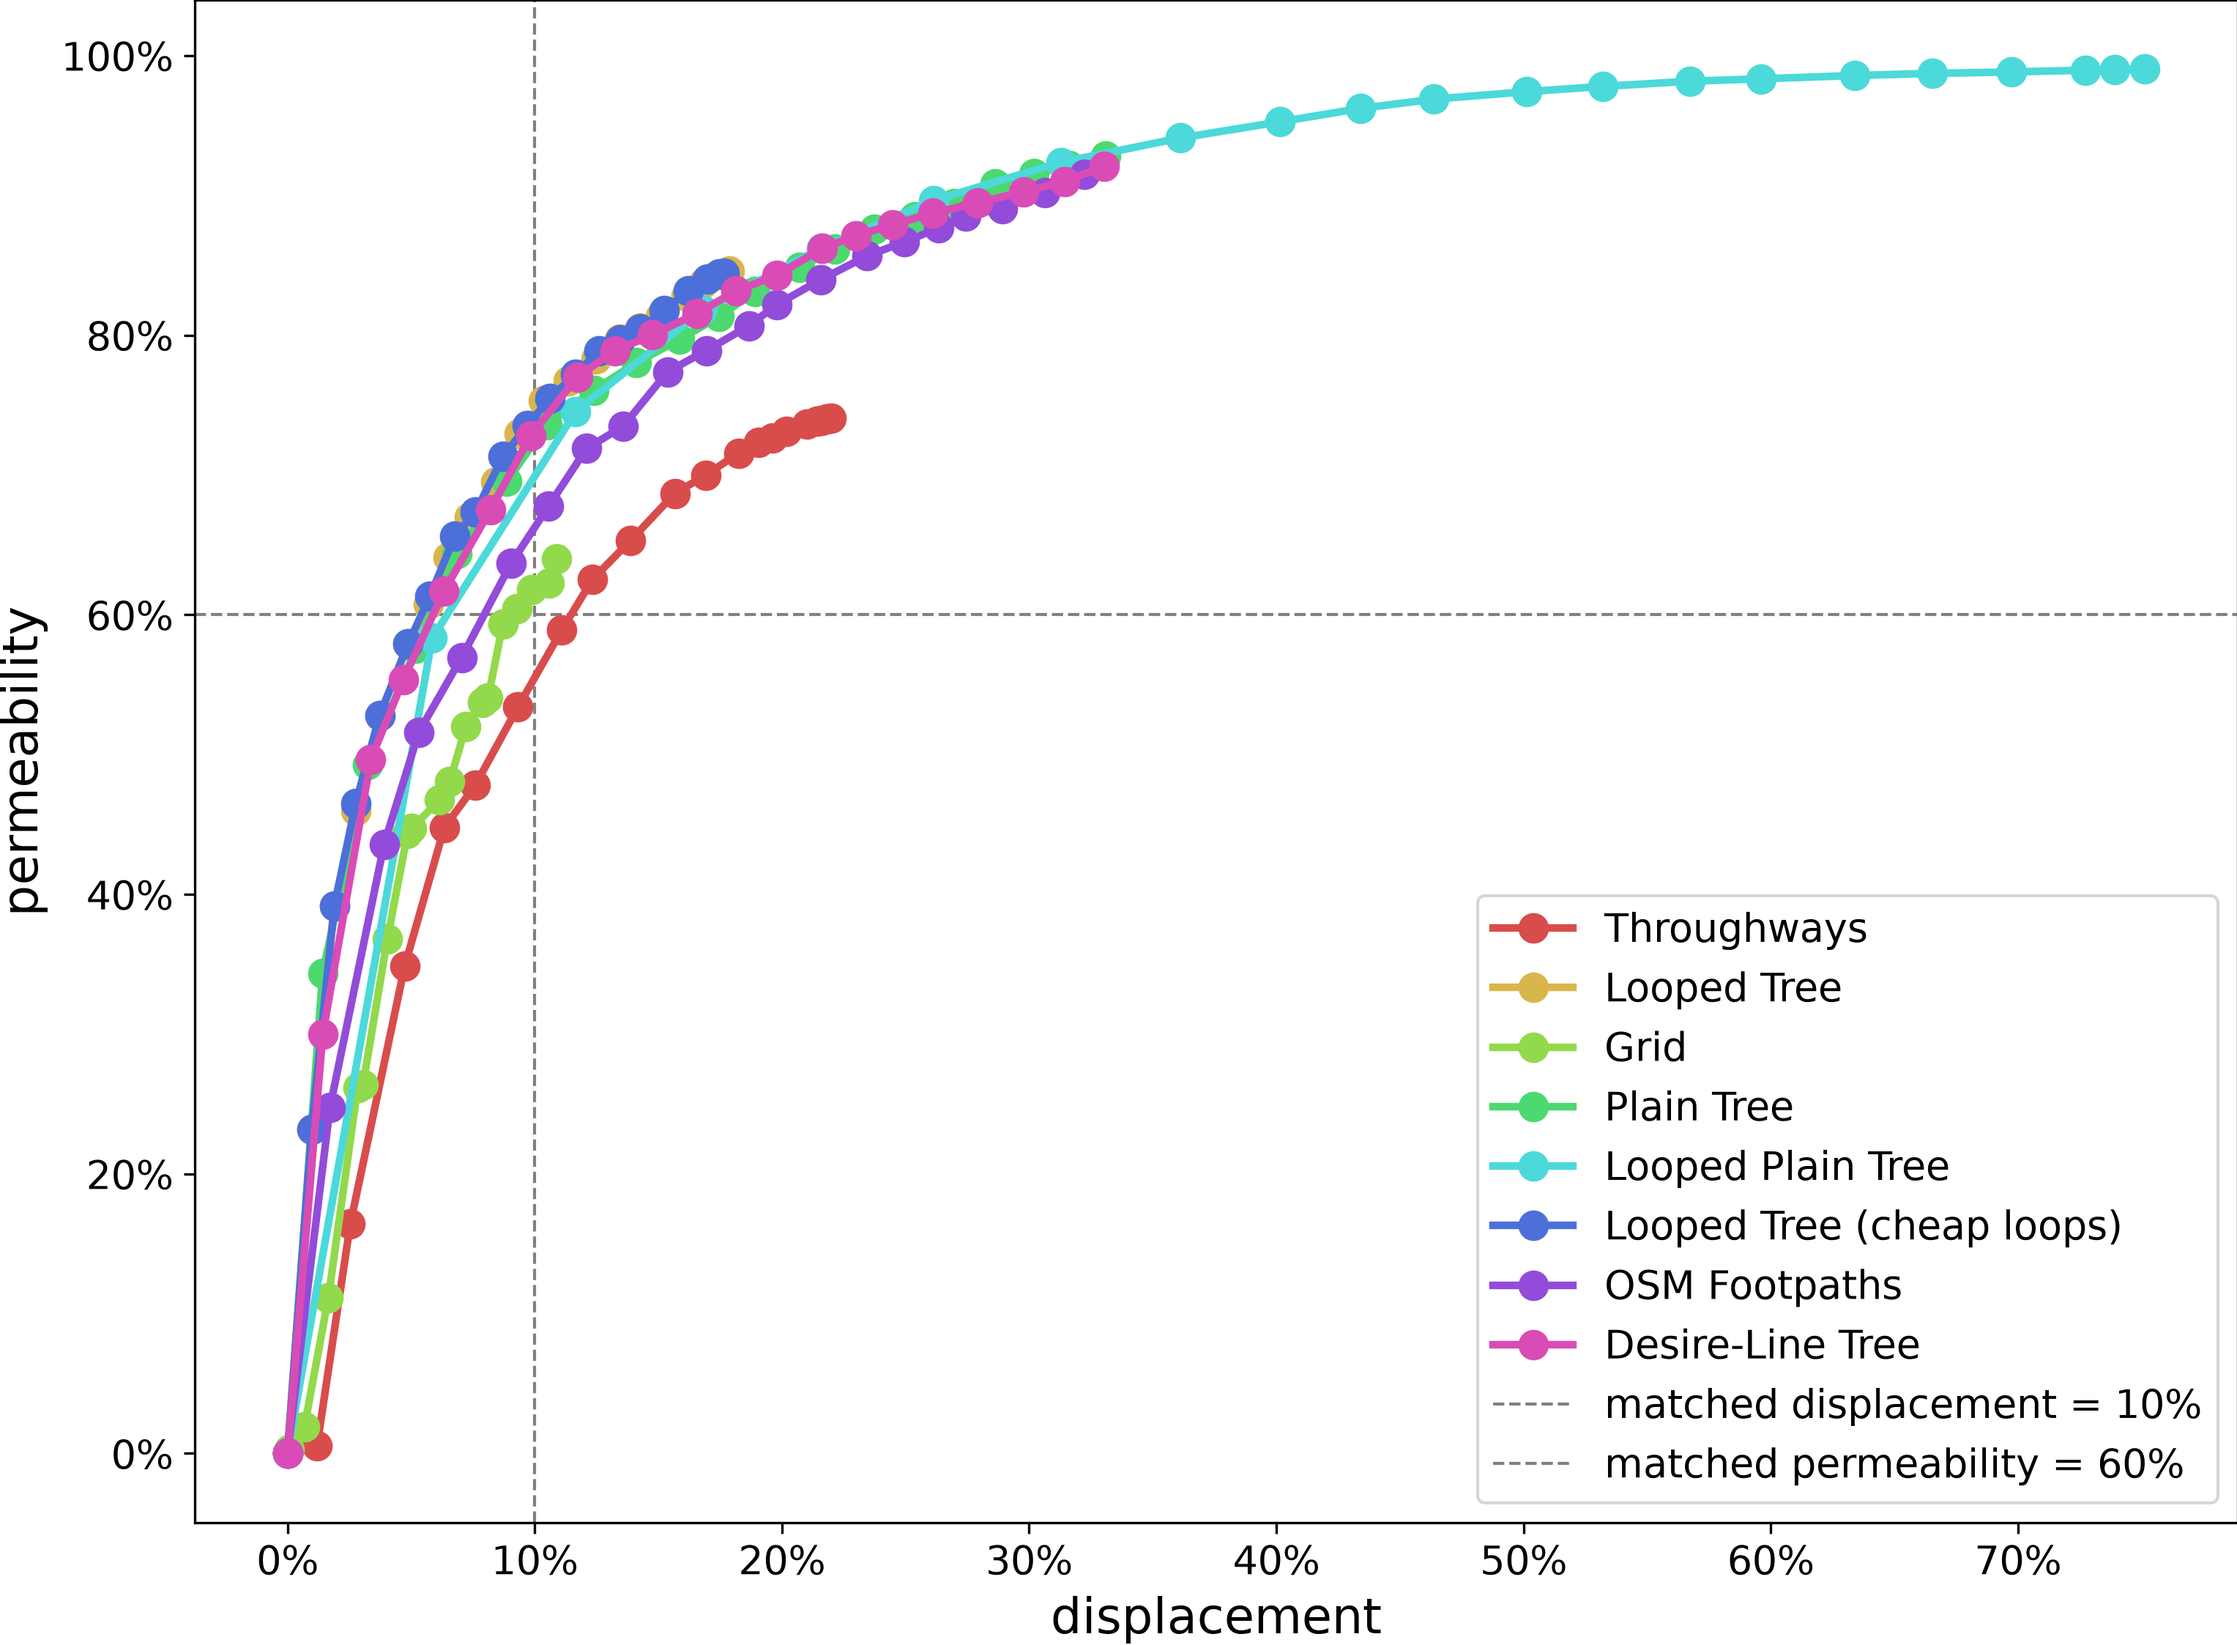
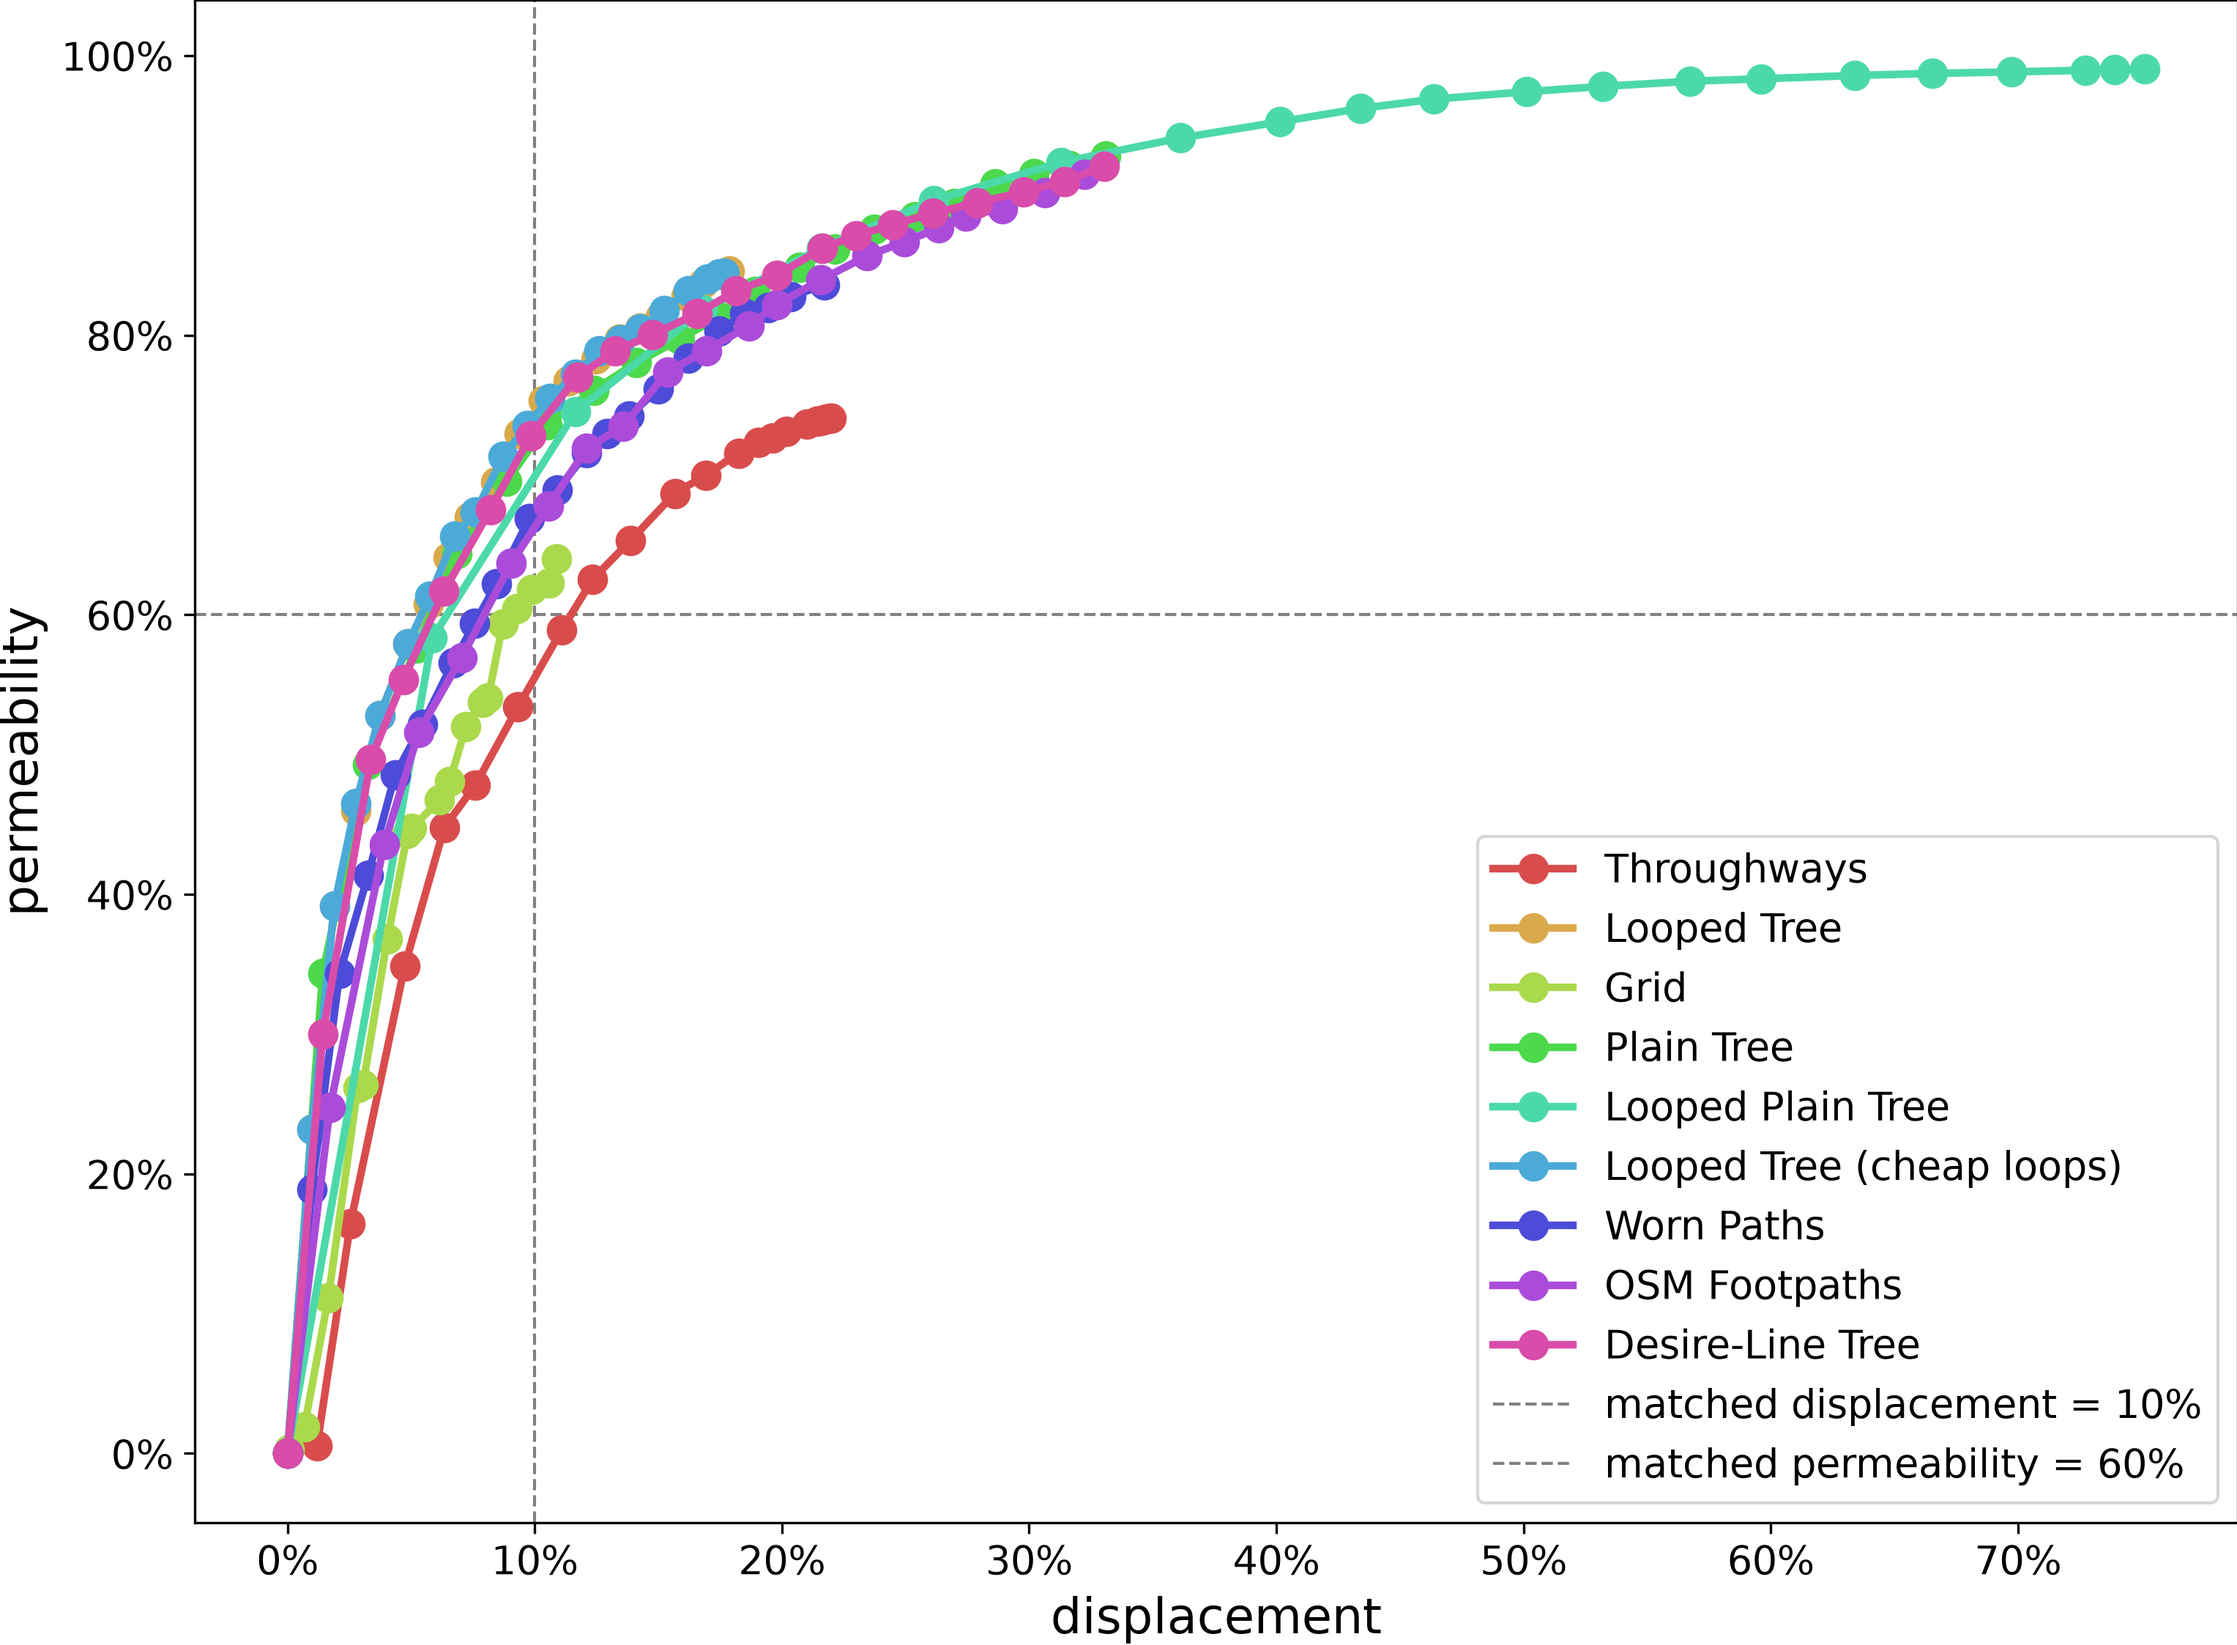
example: add flow_paths -- it lands almost exactly on osm_footpaths
Regenerated density_compactness Cape Town with 9 methods. flow_paths reproduces
the REAL network's position on both lenses, to a degree that reads as more than
coincidence:

  Lens A   flow_paths 0.672 perm @ 2976m   osm_footpaths 0.665 @ 3196m
  Lens B   flow_paths 2403m / 0.0786 disp  osm_footpaths 2460m / 0.0783

Two independent budget conventions, and it sits on the real network in both. So
the trail-formation model does capture something real: it reproduces the
FUNCTIONAL profile of a worn footpath network -- the same permeability for the
same displacement -- even though it does not reproduce its geometry (IoU@10m
0.27, no better than any other method).

That also settles the open question from the mimicry work. Its low displacement
per block was an artefact of being sparser than the budget; at matched
permeability on a region it needs MORE road and MORE displacement than the trees
(2403m/0.079 vs clearance_looped_cheap's 1434m/0.055). It is dominated by them on
both lenses -- exactly as osm_footpaths is, which is the point: real networks lose
on these metrics, and a good model of real networks loses the same way.

max_sources raised to 1500 for the example: the region is ~4,600 parcels and the
per-block default of 400 trip sources samples under 10% of it.

515 passed, lint and mypy --strict clean.

Claude-Session: https://claude.ai/code/session_013nyiMR7YotYFswJtbJY25N

diff --git a/scripts/gen_multiblock_example.py b/scripts/gen_multiblock_example.py
@@ -147,6 +147,7 @@ def main() -> None:
         "all_methods.clearance_looped_cheap.base.max_roads=3000",
         "all_methods.clearance_looped_cheap.budget_frac=0.30",
         "all_methods.clearance_looped_cheap.search_radius_m=60",
+        "+all_methods.flow_paths.max_sources=1500",
         "all_methods.euclidean_grid.spacing=250"]   # coarser grid -> budget in the pack
     if metric_name in _ARTERIAL_MAX_ROADS:
         overrides.append(
@@ -190,7 +191,7 @@ def main() -> None:
         methods = {n: cast(Method, instantiate(cfg.all_methods[n]))
                    for n in ("greedy_arterial_repulsion", "clearance_looped", "euclidean_grid",
                              "demand_greedy_uniform", "demand_looped",
-                             "clearance_looped_cheap")}
+                             "clearance_looped_cheap", "flow_paths")}
         # osm_footpaths: the real as-built informal network, from a committed per-region OSM
         # snapshot (fetched once by scripts.fetch_desire_lines_snapshot) so the example
         # reproduces offline.

diff --git a/examples/multiblock_density_compactness/README.md b/examples/multiblock_density_compactness/README.md
@@ -37,9 +37,9 @@ The frontier is the whole trade-off: **permeability** (benefit — the only bene
 
 **Watch each method reblock** — its full road set added in drainage order, the deep interior draining as the network reaches in:
 
-| Looped Tree | Looped Tree (cheap loops) | Desire-Line Tree | Plain Tree | Looped Plain Tree | Grid | Throughways | OSM Footpaths |
-|---|---|---|---|---|---|---|---|
-| ![Looped Tree](reblock_clearance_looped.gif) | ![Looped Tree (cheap loops)](reblock_clearance_looped_cheap.gif) | ![Desire-Line Tree](reblock_demand_greedy.gif) | ![Plain Tree](reblock_demand_greedy_uniform.gif) | ![Looped Plain Tree](reblock_demand_looped.gif) | ![Grid](reblock_euclidean_grid.gif) | ![Throughways](reblock_greedy_arterial_repulsion.gif) | ![OSM Footpaths](reblock_osm_footpaths.gif) |
+| Looped Tree | Looped Tree (cheap loops) | Desire-Line Tree | Plain Tree | Looped Plain Tree | Grid | Worn Paths | Throughways | OSM Footpaths |
+|---|---|---|---|---|---|---|---|---|
+| ![Looped Tree](reblock_clearance_looped.gif) | ![Looped Tree (cheap loops)](reblock_clearance_looped_cheap.gif) | ![Desire-Line Tree](reblock_demand_greedy.gif) | ![Plain Tree](reblock_demand_greedy_uniform.gif) | ![Looped Plain Tree](reblock_demand_looped.gif) | ![Grid](reblock_euclidean_grid.gif) | ![Worn Paths](reblock_flow_paths.gif) | ![Throughways](reblock_greedy_arterial_repulsion.gif) | ![OSM Footpaths](reblock_osm_footpaths.gif) |
 
 ### Matched displacement
 
@@ -53,20 +53,21 @@ Every method truncated to the same displacement %, so this compares the **permea
 | Plain Tree | 2,433 m | 10.1% | 72.7% |  |
 | Looped Plain Tree | 2,442 m | 10.0% | 71.7% |  |
 | Grid | 3,945 m | 10.1% | 61.9% |  |
+| Worn Paths | 2,976 m | 10.0% | 67.2% |  |
 | Throughways | 3,158 m | 10.0% | 54.9% |  |
 | OSM Footpaths | 3,196 m | 10.0% | 66.5% |  |
 
 Access-depth coloring:
 
-| Looped Tree (cheap loops) | Looped Tree | Desire-Line Tree | Plain Tree | Looped Plain Tree | Grid | Throughways | OSM Footpaths |
-|---|---|---|---|---|---|---|---|
-| ![Looped Tree (cheap loops)](after_clearance_looped_cheap_disp_depth.png) | ![Looped Tree](after_clearance_looped_disp_depth.png) | ![Desire-Line Tree](after_demand_greedy_disp_depth.png) | ![Plain Tree](after_demand_greedy_uniform_disp_depth.png) | ![Looped Plain Tree](after_demand_looped_disp_depth.png) | ![Grid](after_euclidean_grid_disp_depth.png) | ![Throughways](after_greedy_arterial_repulsion_disp_depth.png) | ![OSM Footpaths](after_osm_footpaths_disp_depth.png) |
+| Looped Tree (cheap loops) | Looped Tree | Desire-Line Tree | Plain Tree | Looped Plain Tree | Grid | Worn Paths | Throughways | OSM Footpaths |
+|---|---|---|---|---|---|---|---|---|
+| ![Looped Tree (cheap loops)](after_clearance_looped_cheap_disp_depth.png) | ![Looped Tree](after_clearance_looped_disp_depth.png) | ![Desire-Line Tree](after_demand_greedy_disp_depth.png) | ![Plain Tree](after_demand_greedy_uniform_disp_depth.png) | ![Looped Plain Tree](after_demand_looped_disp_depth.png) | ![Grid](after_euclidean_grid_disp_depth.png) | ![Worn Paths](after_flow_paths_disp_depth.png) | ![Throughways](after_greedy_arterial_repulsion_disp_depth.png) | ![OSM Footpaths](after_osm_footpaths_disp_depth.png) |
 
 Permeability-potential coloring:
 
-| Looped Tree (cheap loops) | Looped Tree | Desire-Line Tree | Plain Tree | Looped Plain Tree | Grid | Throughways | OSM Footpaths |
-|---|---|---|---|---|---|---|---|
-| ![Looped Tree (cheap loops)](after_clearance_looped_cheap_disp_perm.png) | ![Looped Tree](after_clearance_looped_disp_perm.png) | ![Desire-Line Tree](after_demand_greedy_disp_perm.png) | ![Plain Tree](after_demand_greedy_uniform_disp_perm.png) | ![Looped Plain Tree](after_demand_looped_disp_perm.png) | ![Grid](after_euclidean_grid_disp_perm.png) | ![Throughways](after_greedy_arterial_repulsion_disp_perm.png) | ![OSM Footpaths](after_osm_footpaths_disp_perm.png) |
+| Looped Tree (cheap loops) | Looped Tree | Desire-Line Tree | Plain Tree | Looped Plain Tree | Grid | Worn Paths | Throughways | OSM Footpaths |
+|---|---|---|---|---|---|---|---|---|
+| ![Looped Tree (cheap loops)](after_clearance_looped_cheap_disp_perm.png) | ![Looped Tree](after_clearance_looped_disp_perm.png) | ![Desire-Line Tree](after_demand_greedy_disp_perm.png) | ![Plain Tree](after_demand_greedy_uniform_disp_perm.png) | ![Looped Plain Tree](after_demand_looped_disp_perm.png) | ![Grid](after_euclidean_grid_disp_perm.png) | ![Worn Paths](after_flow_paths_disp_perm.png) | ![Throughways](after_greedy_arterial_repulsion_disp_perm.png) | ![OSM Footpaths](after_osm_footpaths_disp_perm.png) |
 
 ### Matched permeability
 
@@ -80,20 +81,21 @@ Every method truncated where permeability first reaches the standard target, so 
 | Plain Tree | 1,401 m | 5.6% | 60.8% |  |
 | Looped Plain Tree | 1,549 m | 6.3% | 60.3% |  |
 | Grid | 3,678 m | 9.3% | 60.4% |  |
+| Worn Paths | 2,403 m | 7.9% | 60.1% |  |
 | Throughways | 3,809 m | 11.8% | 60.5% |  |
 | OSM Footpaths | 2,460 m | 7.8% | 60.6% |  |
 
 Access-depth coloring:
 
-| Looped Tree (cheap loops) | Looped Tree | Desire-Line Tree | Plain Tree | Looped Plain Tree | Grid | Throughways | OSM Footpaths |
-|---|---|---|---|---|---|---|---|
-| ![Looped Tree (cheap loops)](after_clearance_looped_cheap_perm_depth.png) | ![Looped Tree](after_clearance_looped_perm_depth.png) | ![Desire-Line Tree](after_demand_greedy_perm_depth.png) | ![Plain Tree](after_demand_greedy_uniform_perm_depth.png) | ![Looped Plain Tree](after_demand_looped_perm_depth.png) | ![Grid](after_euclidean_grid_perm_depth.png) | ![Throughways](after_greedy_arterial_repulsion_perm_depth.png) | ![OSM Footpaths](after_osm_footpaths_perm_depth.png) |
+| Looped Tree (cheap loops) | Looped Tree | Desire-Line Tree | Plain Tree | Looped Plain Tree | Grid | Worn Paths | Throughways | OSM Footpaths |
+|---|---|---|---|---|---|---|---|---|
+| ![Looped Tree (cheap loops)](after_clearance_looped_cheap_perm_depth.png) | ![Looped Tree](after_clearance_looped_perm_depth.png) | ![Desire-Line Tree](after_demand_greedy_perm_depth.png) | ![Plain Tree](after_demand_greedy_uniform_perm_depth.png) | ![Looped Plain Tree](after_demand_looped_perm_depth.png) | ![Grid](after_euclidean_grid_perm_depth.png) | ![Worn Paths](after_flow_paths_perm_depth.png) | ![Throughways](after_greedy_arterial_repulsion_perm_depth.png) | ![OSM Footpaths](after_osm_footpaths_perm_depth.png) |
 
 Permeability-potential coloring:
 
-| Looped Tree (cheap loops) | Looped Tree | Desire-Line Tree | Plain Tree | Looped Plain Tree | Grid | Throughways | OSM Footpaths |
-|---|---|---|---|---|---|---|---|
-| ![Looped Tree (cheap loops)](after_clearance_looped_cheap_perm_perm.png) | ![Looped Tree](after_clearance_looped_perm_perm.png) | ![Desire-Line Tree](after_demand_greedy_perm_perm.png) | ![Plain Tree](after_demand_greedy_uniform_perm_perm.png) | ![Looped Plain Tree](after_demand_looped_perm_perm.png) | ![Grid](after_euclidean_grid_perm_perm.png) | ![Throughways](after_greedy_arterial_repulsion_perm_perm.png) | ![OSM Footpaths](after_osm_footpaths_perm_perm.png) |
+| Looped Tree (cheap loops) | Looped Tree | Desire-Line Tree | Plain Tree | Looped Plain Tree | Grid | Worn Paths | Throughways | OSM Footpaths |
+|---|---|---|---|---|---|---|---|---|
+| ![Looped Tree (cheap loops)](after_clearance_looped_cheap_perm_perm.png) | ![Looped Tree](after_clearance_looped_perm_perm.png) | ![Desire-Line Tree](after_demand_greedy_perm_perm.png) | ![Plain Tree](after_demand_greedy_uniform_perm_perm.png) | ![Looped Plain Tree](after_demand_looped_perm_perm.png) | ![Grid](after_euclidean_grid_perm_perm.png) | ![Worn Paths](after_flow_paths_perm_perm.png) | ![Throughways](after_greedy_arterial_repulsion_perm_perm.png) | ![OSM Footpaths](after_osm_footpaths_perm_perm.png) |
 
 
 ## How this was generated
